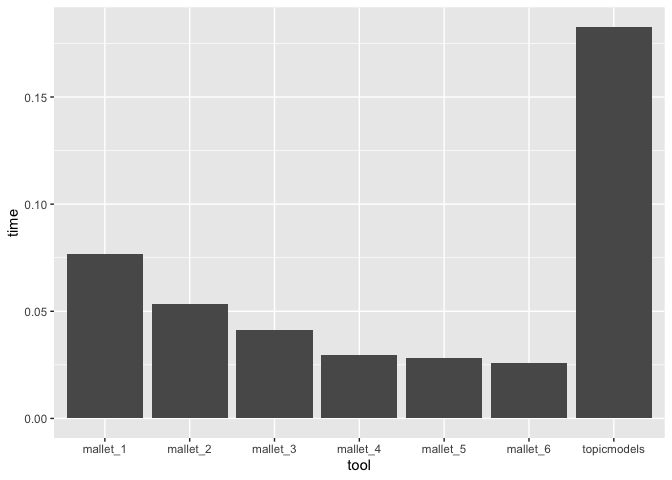
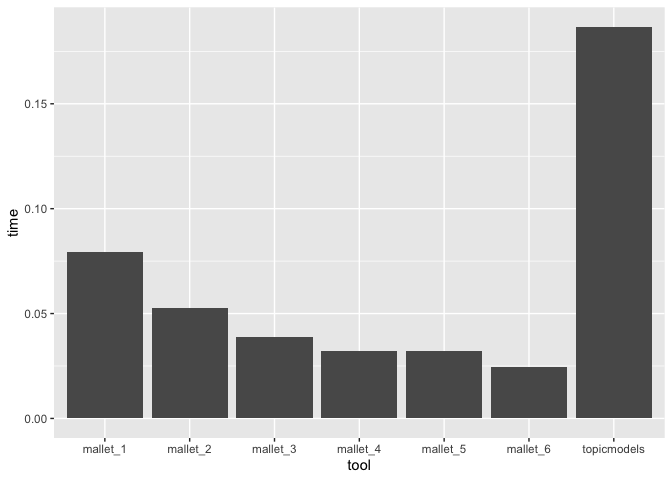
benchmark for metrics

diff --git a/README.md b/README.md
@@ -144,9 +144,10 @@ To convey that biglda is fast, we fit topic models with Mallet with
 different numbers of cores and compare computing time with topic
 modelling with `topicmodels::LDA()`. The corpus used is
 `AssociatedPress` as represented by a `DocumentTermMatrix` included in
-the `topicmodel` package. Here, we just run 100 iterations for a `k` of
-100 topics. In “real life”, you would have more iterations (typically
-1000-2000), but this setup is sufficiently informative on performance.
+the `topicmodel` package. Here, we just run 100 iterations for a limited
+set of `k` topics. In “real life”, you would have more iterations
+(typically 1000-2000), but this setup is sufficiently informative on
+performance.
 
 So we start with the general settings.
 
@@ -226,6 +227,45 @@ ability to include document metadata goes significantly beyond classic
 LDA topic modelling. But `stm::stm()` is significantly slower than
 `topicmodels::LDA()`. The stm package does not address big data
 scenarios very well, this is the specialization of the biglda package.
+
+### Metrics
+
+The package implements the metrics for topic models of the ldatuning
+package (Griffiths2004 still missing) using RcppArmadillo. Based on the
+following code used for benchmarking, the following chart conveys that
+the biglda funtions `BigArun2010()`, `BigCao2009()` and
+`BigDeveaud2014()` are significantly faster than their counterparts in
+the ldatuning package.
+
+``` r
+library(ldatuning)
+
+metrics_timing <- data.frame(
+  pkg = c(rep("ldatuning", times = 3), rep("biglda", times = 3)),
+  metric = c(rep(c("Arun2010", "CaoJuan2009", "Deveaud2009"), times = 2)),
+  time = c(
+    system.time(Arun2010(models = list(lda_model), dtm = AssociatedPress))[3],
+    system.time(CaoJuan2009(models = list(lda_model)))[3],
+    system.time(Deveaud2014(models = list(lda_model)))[3],
+    system.time(BigArun2010(
+      beta = B(lda_model),
+      gamma = G(lda_model),
+      doclengths = BTM$getDocLengthCounts()))[3],
+    system.time(BigCao2009(B(lda_model)))[3],
+    system.time(BigDeveaud2014(B(lda_model)))[3]
+  )
+)
+
+ggplot(metrics_timing, aes(fill = pkg, y = time, x = metric)) + 
+    geom_bar(position = "dodge", stat = "identity")
+```
+
+![](README_files/figure-gfm/unnamed-chunk-1-1.png)<!-- -->
+
+Note that apart from speed, the RcppArmadillo/C++ implementation is much
+more memory efficient. Computations of metrics that may fail with
+ldatuning functionality because memory is exhausted will often work fast
+and successfully with the biglda package.
 
 ## R Markdown templates for topic modelling
 
